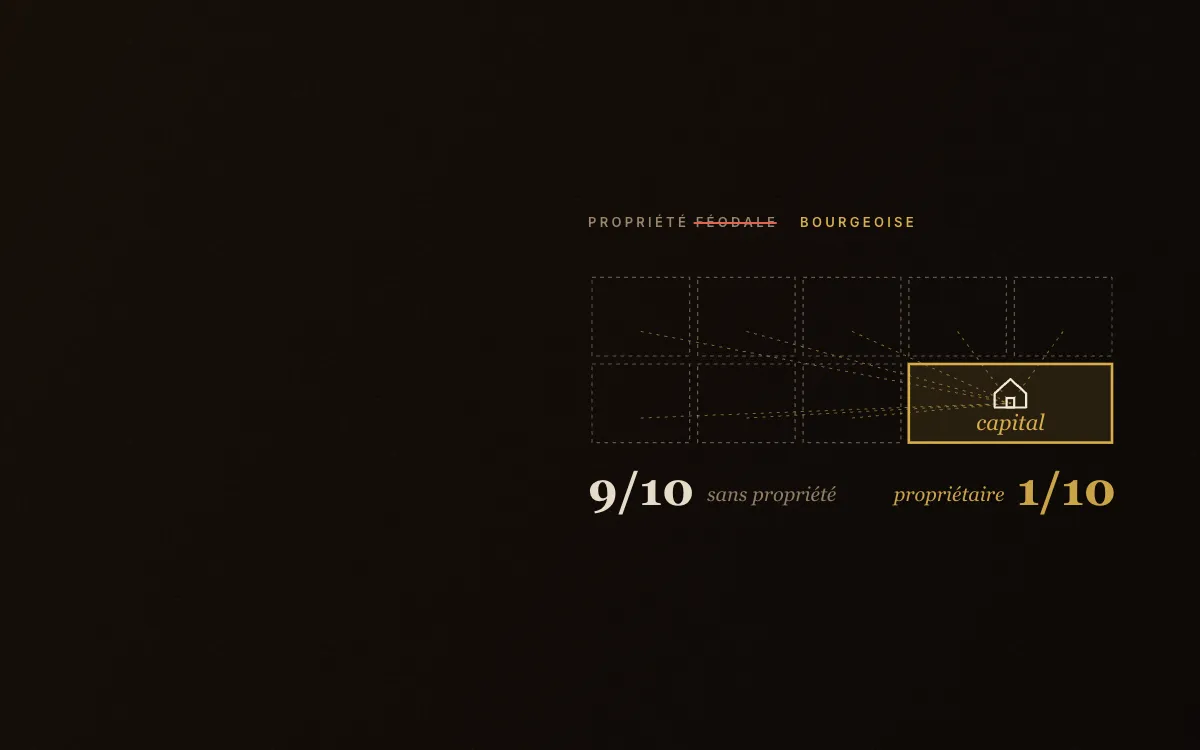
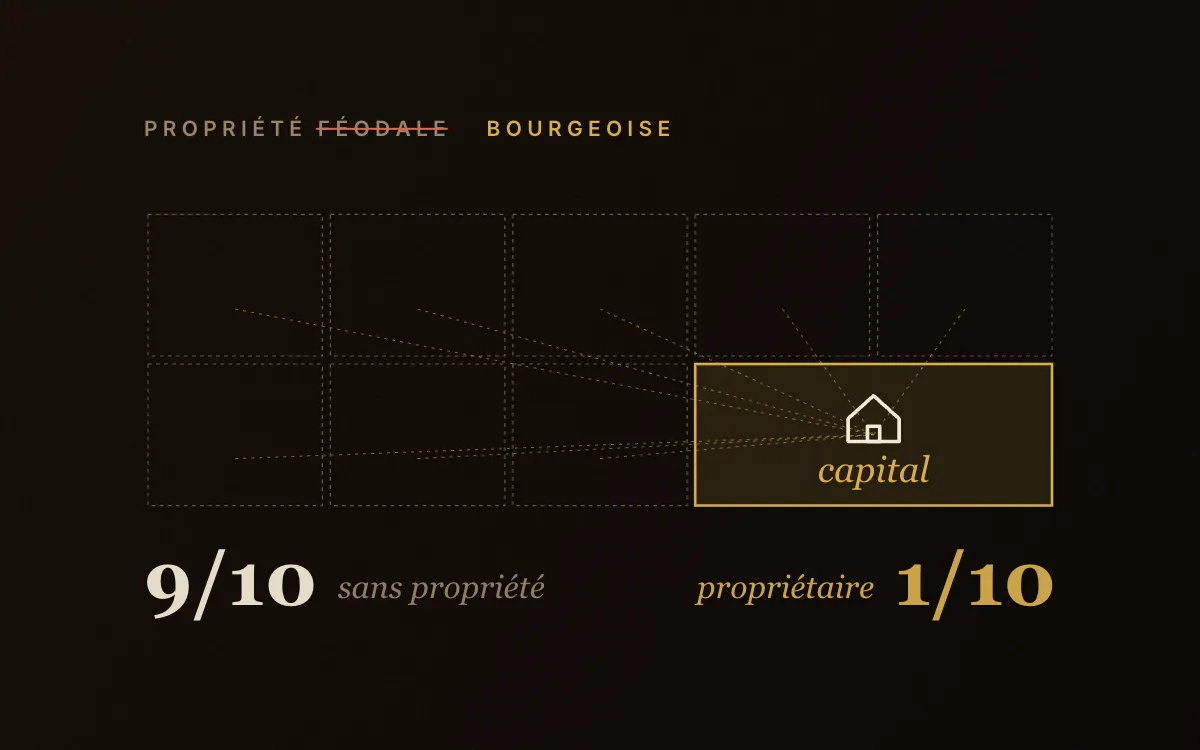
Glossaire : propriete-bourgeoise réécrite selon la charte, direction artistique « le titre de propriété »

diff --git a/glossaire/mondes/propriete-bourgeoise/essai.html b/glossaire/mondes/propriete-bourgeoise/essai.html
@@ -1,48 +1,78 @@
-<!-- L'ESSAI — le corps de /glossaire/propriete-bourgeoise. data-s="1"
-     partout. Toutes les citations sont relevées dans le texte de Laura
-     Lafargue que la liseuse sert ; aucune ne reprend une phrase citée par les
-     autres pages du Manifeste. Les Manuscrits de 1844 sont convoqués sans
-     citation (traduction protégée), par renvoi à leur page. -->
+<!-- L'ESSAI : le corps de /glossaire/propriete-bourgeoise.
+     Réécrit en octobre 2026 selon glossaire/mondes/CHARTE.md.
+     data-s="1" partout : le Manifeste tient en une seule page Wikisource.
+     Toutes les citations sont relevées dans le texte de Laura Lafargue que la
+     liseuse sert (apostrophe typographique comprise ; « une  position » porte
+     deux espaces dans le texte servi). Aucune ne reprend une phrase citée par
+     les autres pages du Manifeste. Les Manuscrits de 1844 sont paraphrasés et
+     situés, jamais cités (traduction protégée). -->
 
 <section class="nt-sec" data-etape="horreur" id="difficulte">
-<h2>Une formule qui fait peur</h2>
-<p>Aucune phrase du <i>Manifeste</i> n'a davantage servi à le combattre que celle où il résume sa doctrine. Les communistes, écrit-il, <q data-s="1" data-q="peuvent résumer leur théorie dans cette proposition">peuvent résumer leur théorie dans cette proposition</q>&nbsp;: abolition de la propriété privée. Prise à la lettre et hors de son contexte, la formule annonce la confiscation de tout ce que chacun possède, de la maison au mobilier&nbsp;; et c'est bien ainsi que ses adversaires l'ont reçue, en accusant les communistes de vouloir abolir la propriété <q data-s="1" data-q="péniblement acquise par le travail">péniblement acquise par le travail</q>, que l'on déclare être la base de toute liberté et de toute indépendance individuelle.</p>
-<p>Toute la difficulté de la notion tient à ce que le texte ne recule pas devant la formule, mais la précise aussitôt, et que la précision en change entièrement le sens. Il ne s'agit pas de la propriété en général&nbsp;: <q data-s="1" data-q="Le caractère distinctif du communisme n’est pas l’abolition de la propriété en général, mais l’abolition de la propriété bourgeoise">le caractère distinctif du communisme n'est pas l'abolition de la propriété en général, mais l'abolition de la propriété bourgeoise</q>. Il faut donc comprendre ce qui distingue la propriété bourgeoise de toute autre, et c'est ce que le texte fait en trois temps, que nous suivrons dans l'ordre&nbsp;: la propriété a une histoire&nbsp;; la propriété personnelle n'est pas la propriété bourgeoise&nbsp;; celle-ci n'existe qu'à la condition d'en priver le plus grand nombre.</p>
+<h2>Que veulent abolir les communistes&nbsp;?</h2>
+<p class="nt-lead">Une forme précise de propriété, que le <i>Manifeste</i> appelle la propriété bourgeoise. Il prend à son compte la formule «&nbsp;abolition de la propriété privée&nbsp;», puis il dit aussitôt de quelle propriété il parle.</p>
+<p>Aucune phrase du <i>Manifeste</i> n'a davantage servi à le combattre que celle où il résume sa doctrine. Les communistes, écrit-il au milieu de la deuxième partie, <q data-s="1" data-q="peuvent résumer leur théorie dans cette proposition">peuvent résumer leur théorie dans cette proposition</q>&nbsp;: abolition de la propriété privée. Lue seule, la formule annonce une confiscation générale, de la maison jusqu'au mobilier. C'est bien ainsi que ses adversaires l'ont entendue&nbsp;: ils accusent les communistes de vouloir abolir la propriété personnelle, <q data-s="1" data-q="péniblement acquise par le travail">péniblement acquise par le travail</q>, que l'on tient pour la base de toute liberté et de toute indépendance individuelle.</p>
+<p>Le texte ne retire pas la formule. Il la précise, et la précision en change le sens&nbsp;:</p>
+<blockquote data-s="1" data-q="Le caractère distinctif du communisme n’est pas l’abolition de la propriété en général, mais l’abolition de la propriété bourgeoise"><p>Le caractère distinctif du communisme n’est pas l’abolition de la propriété en général, mais l’abolition de la propriété bourgeoise.</p></blockquote>
+<p>C'est cet adjectif qu'il faut comprendre. Pour le comprendre, le <i>Manifeste</i> répond aux objections en trois temps, et l'on suivra son ordre. La propriété a une histoire, dont la forme bourgeoise n'est que le dernier moment. La propriété qu'on gagne par son travail se distingue de celle qui donne un pouvoir sur le travail des autres. Enfin, la propriété bourgeoise n'existe pour quelques-uns qu'à condition d'être refusée au plus grand nombre.</p>
 </section>
 
 <section class="nt-sec" data-etape="histoire" id="ou">
-<h2>Où le texte la pose&nbsp;: la propriété a une histoire</h2>
-<p>La première réponse aux objections est historique, et elle ruine d'emblée l'idée que les communistes s'attaqueraient à une institution éternelle. <q data-s="1" data-q="La propriété a subi de constants changements, de continuelles transformations historiques">La propriété a subi de constants changements, de continuelles transformations historiques</q>, et le texte en donne l'exemple le plus proche de ses lecteurs&nbsp;: <q data-s="1" data-q="La Révolution française, par exemple, abolit la propriété féodale en faveur de la propriété bourgeoise">la Révolution française, par exemple, abolit la propriété féodale en faveur de la propriété bourgeoise</q>. Abolir une forme de propriété n'est donc pas une nouveauté inouïe&nbsp;: c'est ce que la bourgeoisie a fait elle-même, et ce dont elle tire sa légitimité.</p>
-<p>La propriété bourgeoise reçoit alors sa place dans cette histoire, et le texte la situe à son terme. Elle est <q data-s="1" data-q="la dernière et la plus parfaite expression du mode de production et d’appropriation basé sur les antagonismes de classes, sur l’exploitation des uns par les autres">la dernière et la plus parfaite expression du mode de production et d'appropriation basé sur les antagonismes de classes, sur l'exploitation des uns par les autres</q>. Dernière, parce que le texte n'en voit pas d'autre après elle&nbsp;; parfaite, parce qu'elle a débarrassé l'appropriation de tout ce qui la mêlait, dans les formes antérieures, à des liens personnels ou coutumiers. On voit par là ce que la notion doit à celle de la <a href="/glossaire/lutte-des-classes">lutte des classes</a>&nbsp;: une propriété de classe est un rapport entre des hommes, et c'est ce rapport qu'on abolit, non les choses.</p>
-<p>Il faut distinguer cette notion de celle que les <i>Manuscrits de 1844</i> nommaient déjà propriété privée. Là, Marx la pensait comme le résultat du travail aliéné, et la question était celle de l'essence humaine dépossédée&nbsp;; ici, la propriété est une forme historique parmi d'autres, datée et située. Le passage d'un vocabulaire à l'autre est l'un des déplacements majeurs de ces quatre années, et on le lira à la page de la <a href="/glossaire/propriete-privee">propriété privée</a>.</p>
+<h2>Pourquoi le <i>Manifeste</i> rappelle-t-il que la propriété a une histoire&nbsp;?</h2>
+<p class="nt-lead">Pour montrer qu'abolir une forme de propriété n'a rien d'inouï. La bourgeoisie l'a fait elle-même en abolissant la propriété féodale, et la propriété bourgeoise n'est qu'une forme parmi d'autres, la dernière en date.</p>
+<p>L'objection suppose que la propriété est une institution naturelle, la même à toutes les époques. Le texte lui oppose un constat&nbsp;: <q data-s="1" data-q="La propriété a subi de constants changements, de continuelles transformations historiques">la propriété a subi de constants changements, de continuelles transformations historiques</q>. Il en donne l'exemple le plus proche de ses lecteurs&nbsp;: <q data-s="1" data-q="La Révolution française, par exemple, abolit la propriété féodale en faveur de la propriété bourgeoise">la Révolution française, par exemple, abolit la propriété féodale en faveur de la propriété bourgeoise</q>. Ceux qui crient à la spoliation sont donc les héritiers d'une abolition. Leur propre propriété est née de la destruction d'une autre.</p>
+<div data-planche="decret"></div>
+<p>La propriété bourgeoise reçoit alors sa place dans cette histoire, et le texte la met à la fin. Elle est <q data-s="1" data-q="la dernière et la plus parfaite expression du mode de production et d’appropriation basé sur les antagonismes de classes, sur l’exploitation des uns par les autres">la dernière et la plus parfaite expression du mode de production et d’appropriation basé sur les antagonismes de classes, sur l’exploitation des uns par les autres</q>. Dernière, parce que le texte n'en voit pas d'autre après elle. Parfaite, parce qu'elle a dégagé l'appropriation des liens personnels qui l'enveloppaient sous la féodalité. La première partie du <i>Manifeste</i> l'avait dit de la bourgeoisie&nbsp;: elle a brisé les liens qui attachaient l'homme féodal à ses supérieurs, <q data-s="1" data-q="pour ne laisser subsister d’autre lien entre l’homme et l’homme que le froid intérêt, que le dur argent comptant">pour ne laisser subsister d’autre lien entre l’homme et l’homme que le froid intérêt, que le dur argent comptant</q>. On voit ce que la notion doit à la <a href="/glossaire/lutte-des-classes">lutte des classes</a>. Une propriété de classe est un rapport entre des hommes, et c'est ce rapport que l'on abolit, les choses restant ce qu'elles sont.</p>
+<p>On distinguera cette notion de celle que les <i>Manuscrits de 1844</i> appelaient déjà propriété privée. Dans le premier manuscrit, Marx montrait que la propriété privée, qui paraît la cause du travail aliéné, en est plutôt la conséquence. La question portait alors sur l'homme dépossédé de son activité. Quatre ans plus tard, la propriété est devenue une forme historique, datée, que l'on décrit par les classes qu'elle oppose. Ce déplacement se lit à la page de la <a href="/glossaire/propriete-privee">propriété privée</a>.</p>
 </section>
 
 <section class="nt-sec" data-etape="personnelle" id="distinction">
-<h2>La distinction&nbsp;: le fruit du travail et le pouvoir sur le travail</h2>
-<p>La deuxième réponse porte la distinction qui fait le concept. Le texte prend l'objection au mot&nbsp;: de quelle propriété parle-t-on&nbsp;? S'agit-il de celle du petit bourgeois ou du petit paysan, forme antérieure à la propriété bourgeoise&nbsp;? Dans ce cas, les communistes n'ont pas à l'abolir, pour une raison que l'objection oublie&nbsp;: <q data-s="1" data-q="le progrès de l’industrie l’a abolie, ou est en train de l’abolir">le progrès de l'industrie l'a abolie, ou est en train de l'abolir</q>. La propriété personnelle, fruit du travail d'un homme, n'est pas menacée par le communisme&nbsp;: elle l'est par le capitalisme, qui la ruine tous les jours.</p>
-<p>S'agit-il au contraire de la propriété bourgeoise moderne&nbsp;? Alors il faut demander d'où elle vient, et la réponse est tranchante&nbsp;:</p>
+<h2>Qu'est-ce qui sépare la propriété personnelle de la propriété bourgeoise&nbsp;?</h2>
+<p class="nt-lead">Leur rapport au travail. La propriété personnelle est le fruit du travail de celui qui la possède&nbsp;; la propriété bourgeoise est un pouvoir sur le travail des autres.</p>
+<p>Le texte prend l'objection au mot et lui demande de quelle propriété elle parle. Si c'est celle du petit bourgeois ou du petit paysan, plus ancienne que la propriété bourgeoise, les communistes n'ont pas à l'abolir, et pour une raison que l'objection oublie&nbsp;: <q data-s="1" data-q="le progrès de l’industrie l’a abolie, ou est en train de l’abolir">le progrès de l’industrie l’a abolie, ou est en train de l’abolir</q>. L'artisan qui possédait son atelier et le paysan qui possédait son champ ne sont pas menacés par le communisme. Ils le sont par la grande industrie, qui les ruine tous les jours et les fait passer dans le salariat.</p>
+<p>Si c'est la propriété bourgeoise moderne, il faut demander d'où elle vient, et la réponse est tranchante&nbsp;:</p>
 <blockquote data-s="1" data-q="Est-ce que le travail salarié crée de la propriété pour le prolétaire ? Nullement"><p>Est-ce que le travail salarié crée de la propriété pour le prolétaire&nbsp;? Nullement. Il crée le capital, c’est-à-dire la propriété qui exploite le travail salarié, et qui ne peut s’accroître qu’à la condition de produire du nouveau travail salarié afin de l’exploiter de nouveau.</p></blockquote>
-<p>La distinction ne passe donc pas entre les grandes et les petites propriétés, ni entre les biens utiles et les biens superflus. Elle passe entre une propriété qui est le produit du travail de son possesseur et une propriété qui est un pouvoir sur le travail des autres. Le texte le formule sans ambiguïté un peu plus loin&nbsp;: <q data-s="1" data-q="Le communisme n’enlève à personne le pouvoir de s’approprier sa part des produits sociaux, il n’ôte que le pouvoir d’assujettir, à l’aide de cette appropriation, le travail d’autrui">le communisme n'enlève à personne le pouvoir de s'approprier sa part des produits sociaux, il n'ôte que le pouvoir d'assujettir, à l'aide de cette appropriation, le travail d'autrui</q>.</p>
+<p>La ligne de partage passe donc entre deux usages de ce qu'on possède, quelle que soit la taille de la fortune. L'ouvrier s'approprie un salaire, avec lequel il entretient sa vie, et le texte n'y touche pas, <q data-s="1" data-q="cette appropriation ne laissant aucun profit net qui donne du pouvoir sur le travail d’autrui">cette appropriation ne laissant aucun profit net qui donne du pouvoir sur le travail d’autrui</q>. Une propriété devient bourgeoise à partir du moment où elle permet de faire travailler les autres à son profit. Le texte le redit plus loin, en une phrase qui sert de définition&nbsp;: <q data-s="1" data-q="Le communisme n’enlève à personne le pouvoir de s’approprier sa part des produits sociaux, il n’ôte que le pouvoir d’assujettir, à l’aide de cette appropriation, le travail d’autrui">le communisme n’enlève à personne le pouvoir de s’approprier sa part des produits sociaux, il n’ôte que le pouvoir d’assujettir, à l’aide de cette appropriation, le travail d’autrui</q>.</p>
+<div class="nt-ex">
+<p class="nt-ex-t">Un exemple</p>
+<p>Prenons l'action reproduite en tête de cette page. En 1856, à Bielefeld, la filature de Ravensberg émet son action n° 1993, de deux cents thalers. Le papier dit que son détenteur prend part à la filature pour cette somme, et dix coupons de dividende y sont attachés, de 1857 à 1866. Ce détenteur n'a pas besoin de connaître le chemin de l'usine. Chaque année, il détache un coupon et touche sa part de ce que d'autres ont produit en filant.</p>
+<p>Imaginons à présent un fileur de la même usine. Il possède ses vêtements, ses meubles, peut-être une montre. Ces biens viennent de son salaire, et ils s'usent à mesure qu'il s'en sert. Aucun ne lui permet de faire travailler qui que ce soit. Les deux hommes sont propriétaires, mais leurs propriétés n'ont pas la même nature, et c'est la seconde, la plus modeste, que le <i>Manifeste</i> déclare intouchable.</p>
+</div>
 </section>
 
 <section class="nt-sec" data-etape="capital" id="mecanisme">
-<h2>Le mécanisme&nbsp;: une force sociale en mains privées</h2>
-<p>Pourquoi le capital serait-il un pouvoir, et non une richesse comme une autre&nbsp;? La réponse du texte tient en un raisonnement bref, qui déplace la question du possesseur vers la production. <q data-s="1" data-q="Le capital est un produit collectif">Le capital est un produit collectif</q>&nbsp;; il ne peut être mis en mouvement que par les efforts combinés de beaucoup, et en dernière instance de tous les membres de la société. Être capitaliste, par conséquent, ce n'est pas seulement occuper une position personnelle, c'est occuper <q data-s="1" data-q="une  position sociale dans le système de la production">une position sociale dans le système de la production</q>. D'où la conclusion&nbsp;:</p>
+<h2>Pourquoi le capital est-il un pouvoir et pas une richesse comme une autre&nbsp;?</h2>
+<p class="nt-lead">Parce qu'il est un produit collectif, qui ne se met en mouvement que par le travail combiné de beaucoup. Celui qui le possède tient en mains privées une force sociale.</p>
+<p>Le raisonnement du texte est bref, et il déplace la question du possesseur vers la production. <q data-s="1" data-q="Le capital est un produit collectif">Le capital est un produit collectif</q>&nbsp;: il ne fonctionne que si beaucoup de membres de la société y travaillent ensemble, et en dernière instance tous. Être capitaliste, par conséquent, c'est occuper non seulement une position personnelle, mais <q data-s="1" data-q="une  position sociale dans le système de la production">une position sociale dans le système de la production</q>. La conclusion suit&nbsp;:</p>
 <blockquote data-s="1" data-q="Le capital n’est donc pas une force personnelle"><p>Le capital n’est donc pas une force personnelle&nbsp;; il est une force sociale.</p></blockquote>
-<p>L'abolition de la propriété bourgeoise reçoit ainsi une définition précise, qui n'a rien d'une confiscation. Quand le capital devient propriété commune, <q data-s="1" data-q="ce n’est pas là une propriété personnelle transformée en propriété sociale">ce n'est pas là une propriété personnelle transformée en propriété sociale</q>&nbsp;: la chose était déjà sociale, seul change le caractère de sa propriété, qui <q data-s="1" data-q="perd son caractère de propriété de classe">perd son caractère de propriété de classe</q>.</p>
-<p>Le texte en donne une formulation temporelle qui annonce <i>Le Capital</i>. <q data-s="1" data-q="Dans la société bourgeoise, le travail vivant n’est qu’un moyen d’accroître le travail accumulé">Dans la société bourgeoise, le travail vivant n'est qu'un moyen d'accroître le travail accumulé</q>&nbsp;; dans la société communiste, le travail accumulé n'est qu'un moyen d'élargir et d'enrichir l'existence des travailleurs. Et plus brièvement encore&nbsp;: <q data-s="1" data-q="Dans la société bourgeoise, le passé domine le présent">dans la société bourgeoise, le passé domine le présent</q>. On reconnaît le rapport que <i>Le Capital</i> analysera sous les noms de <a href="/glossaire/travail-mort-et-vivant">travail mort et travail vivant</a>.</p>
+<p>L'abolition de la propriété bourgeoise reçoit ici une définition précise, qui n'a rien d'une confiscation de biens. Quand le capital devient propriété commune, <q data-s="1" data-q="ce n’est pas là une propriété personnelle transformée en propriété sociale">ce n’est pas là une propriété personnelle transformée en propriété sociale</q>. La chose était déjà sociale par la manière dont elle est produite et mise en œuvre. Seul change le caractère de sa propriété, qui <q data-s="1" data-q="perd son caractère de propriété de classe">perd son caractère de propriété de classe</q>.</p>
+<p>Le texte donne de ce rapport une formule temporelle qui annonce <i>Le Capital</i>. <q data-s="1" data-q="Dans la société bourgeoise, le travail vivant n’est qu’un moyen d’accroître le travail accumulé">Dans la société bourgeoise, le travail vivant n’est qu’un moyen d’accroître le travail accumulé</q>&nbsp;; dans la société communiste, poursuit-il, le travail accumulé servira à élargir, enrichir et embellir l'existence. Plus brièvement encore&nbsp;: <q data-s="1" data-q="Dans la société bourgeoise, le passé domine le présent">dans la société bourgeoise, le passé domine le présent</q>. Le travail d'hier, devenu capital, commande le travail d'aujourd'hui. Marx analysera ce rapport sous les noms de <a href="/glossaire/travail-mort-et-vivant">travail mort et travail vivant</a>.</p>
 </section>
 
 <section class="nt-sec" data-etape="neuf" id="ouvre">
-<h2>Ce que le concept ouvre&nbsp;: les neuf dixièmes</h2>
-<p>La troisième réponse retourne l'objection contre ceux qui la font, et c'est le passage le plus célèbre de la partie. Les bourgeois accusent les communistes de vouloir priver les hommes de leur propriété&nbsp;; le texte leur rappelle ce qu'est leur propre société&nbsp;:</p>
+<h2>Que signifient les «&nbsp;neuf dixièmes&nbsp;»&nbsp;?</h2>
+<p class="nt-lead">Une condition, dite sous forme de proportion&nbsp;: la propriété bourgeoise suppose que la grande majorité en soit privée. L'abolition que redoutent les bourgeois est déjà faite, pour presque tous.</p>
+<p>Le troisième temps de la réponse retourne l'objection contre ceux qui la font. On accuse les communistes de vouloir priver les hommes de leur propriété&nbsp;; le texte rappelle à ses accusateurs ce qu'est leur propre société&nbsp;:</p>
 <blockquote data-s="1" data-q="Vous êtes saisi d’horreur parce que nous voulons abolir la propriété privée"><p>Vous êtes saisi d’horreur parce que nous voulons abolir la propriété privée. Mais dans votre société la propriété privée est abolie pour les neuf dixièmes de ses membres. C’est précisément parce qu’elle n’existe pas pour ces neuf dixièmes qu’elle existe pour vous.</p></blockquote>
-<p>La proportion n'est pas une statistique, et il serait vain de la vérifier comme telle&nbsp;; c'est un rapport, et il dit que la propriété bourgeoise n'est pas une propriété répandue qui aurait des exclus, mais une propriété qui ne peut <q data-s="1" data-q="se constituer qu’à la condition de priver l’immense majorité de la société de toute propriété">se constituer qu'à la condition de priver l'immense majorité de la société de toute propriété</q>. L'abolition que redoutent les bourgeois est donc déjà faite, pour presque tous, et elle est la condition même de la propriété qu'ils défendent. Le texte en tire la seule conclusion honnête&nbsp;: <q data-s="1" data-q="En un mot, vous nous accusez de vouloir abolir votre propriété à vous. À la vérité, c’est bien là notre intention">en un mot, vous nous accusez de vouloir abolir votre propriété à vous. À la vérité, c'est bien là notre intention</q>. C'est l'histoire de cette privation que <i>Le Capital</i> écrira à la page de l'<a href="/glossaire/accumulation-primitive">accumulation primitive</a>.</p>
+<p>Il serait vain de vérifier la proportion comme une statistique. Elle énonce un lien de dépendance. Si le capital est un pouvoir sur le travail d'autrui, il lui faut des hommes qui n'ont rien d'autre à vendre que ce travail. La propriété bourgeoise ne peut donc <q data-s="1" data-q="se constituer qu’à la condition de priver l’immense majorité de la société de toute propriété">se constituer qu’à la condition de priver l’immense majorité de la société de toute propriété</q>. Elle n'a pas des exclus par accident, comme une richesse qui ne serait pas encore assez répandue. Ses exclus sont sa condition.</p>
+<div data-planche="belier"></div>
+<p>Le texte peut alors conclure sans détour&nbsp;: <q data-s="1" data-q="En un mot, vous nous accusez de vouloir abolir votre propriété à vous. À la vérité, c’est bien là notre intention">en un mot, vous nous accusez de vouloir abolir votre propriété à vous. À la vérité, c’est bien là notre intention</q>. L'ironie porte l'argument. Ce que le <i>Manifeste</i> veut abolir appartient déjà à un petit nombre, et c'est cette rareté même qui le rend désirable à ses possesseurs. Comment la majorité a été privée de toute propriété, <i>Le Capital</i> le racontera à la page de l'<a href="/glossaire/accumulation-primitive">accumulation primitive</a>.</p>
 </section>
 
 <section class="nt-sec" data-etape="lectures" id="lectures">
-<h2>Les lectures et les contresens</h2>
-<p>Le premier contresens, et le plus répandu, confond propriété bourgeoise et biens personnels&nbsp;: les communistes voudraient prendre la maison, le linge, les économies. Nous avons vu que le texte dit exactement l'inverse, et que c'est le capitalisme qu'il accuse d'avoir aboli la petite propriété. La distinction n'est pas une précaution rhétorique&nbsp;; elle est la définition même de la notion, qui porte sur un pouvoir et non sur des objets.</p>
-<p>Le deuxième tient à l'objection de la paresse, que le texte cite et réfute d'une ligne. On a dit qu'avec l'abolition de la propriété privée <q data-s="1" data-q="une paresse générale s’emparerait du monde">une paresse générale s'emparerait du monde</q>&nbsp;; si cela était, répond-il, la société bourgeoise aurait depuis longtemps succombé à la fainéantise, <q data-s="1" data-q="puisque ceux qui y travaillent ne gagnent pas et que ceux qui y gagnent ne travaillent pas">puisque ceux qui y travaillent ne gagnent pas et que ceux qui y gagnent ne travaillent pas</q>. L'argument ne prouve pas que le communisme fonctionnerait&nbsp;; il montre que l'objection suppose ce qu'elle devrait établir, à savoir que la propriété privée récompense le travail.</p>
-<p>Le troisième contresens identifie l'abolition de la propriété bourgeoise à la propriété d'État. Le texte y prête, puisque la première étape qu'il décrit consiste à centraliser les instruments de production dans les mains de l'État. Mais il précise aussitôt que cet État est le prolétariat organisé en classe régnante, et que cette domination doit elle-même disparaître avec les classes&nbsp;; la propriété d'État n'est donc qu'un moyen transitoire, et le but est ailleurs, dans la perte du caractère de classe de la propriété. Nous tenons que confondre l'étape et le but est ce qui a permis de faire passer pour du <a href="/glossaire/communisme">communisme</a> des régimes où la propriété d'État restait une propriété de classe sous un autre nom&nbsp;; la page du <a href="/glossaire/pouvoir-politique">pouvoir politique</a> précise ce que le texte entend par cette transition.</p>
+<h2>Comment lire cette notion, et quels contresens éviter&nbsp;?</h2>
+<p class="nt-lead">La notion porte sur un pouvoir. La plupart des contresens viennent de ce qu'on l'oublie, ou de ce qu'on confond le but du texte avec l'étape qu'il décrit.</p>
+<p>Le <i>Manifeste</i> répond encore à une objection, celle de la paresse. On a dit qu'avec l'abolition de la propriété privée <q data-s="1" data-q="une paresse générale s’emparerait du monde">une paresse générale s’emparerait du monde</q>. Si c'était vrai, répond-il, la société bourgeoise aurait depuis longtemps succombé à la fainéantise, <q data-s="1" data-q="puisque ceux qui y travaillent ne gagnent pas et que ceux qui y gagnent ne travaillent pas">puisque ceux qui y travaillent ne gagnent pas et que ceux qui y gagnent ne travaillent pas</q>. La réplique ne prouve pas qu'une société communiste fonctionnerait. Elle montre que l'objection suppose ce qu'il faudrait établir, à savoir que la propriété privée récompense le travail. Le porteur de l'action de Ravensberg touche son dividende sans filer.</p>
+<p>Reste la question des moyens. Le texte décrit une première étape, où le prolétariat, devenu classe régnante, centralise les instruments de production entre les mains de l'État. Il ajoute que cet État est le prolétariat lui-même, organisé en classe régnante, et que cette domination doit disparaître avec les classes. Nous tenons que la confusion entre cette étape et le but a permis de présenter comme communistes des régimes où la propriété d'État restait une propriété de classe sous un autre nom. La page du <a href="/glossaire/pouvoir-politique">pouvoir politique</a> précise ce que le texte entend par cette transition, et celle du <a href="/glossaire/communisme">communisme</a> ce que Marx en disait dès 1844.</p>
+<div class="nt-cs">
+<p><span class="nt-cs-k">On lit souvent</span> Les communistes voudraient prendre à chacun sa maison, ses meubles, ses économies.</p>
+<p><span class="nt-cs-k">Ce que dit le texte</span> Il laisse intacte l'appropriation personnelle des produits du travail, et il accuse le capitalisme d'avoir déjà ruiné la petite propriété de l'artisan et du paysan. Ce qu'il vise est le pouvoir de faire travailler les autres à son profit.</p>
+</div>
+<div class="nt-cs">
+<p><span class="nt-cs-k">On lit souvent</span> Abolir la propriété bourgeoise reviendrait à tout remettre à l'État.</p>
+<p><span class="nt-cs-k">Ce que dit le texte</span> La centralisation par l'État y est une étape, confiée au prolétariat organisé en classe régnante, et appelée à disparaître avec les classes. Le but est que la propriété perde son caractère de propriété de classe.</p>
+</div>
+<div class="nt-cs">
+<p><span class="nt-cs-k">On lit souvent</span> Les «&nbsp;neuf dixièmes&nbsp;» seraient une estimation de la pauvreté en 1848, qu'il suffirait de corriger avec de meilleurs chiffres.</p>
+<p><span class="nt-cs-k">Ce que dit le texte</span> La proportion dit une dépendance&nbsp;: la propriété des uns existe parce que les autres n'en ont pas. Une meilleure répartition des biens personnels ne touche pas à ce rapport.</p>
+</div>
 </section>

diff --git a/glossaire/mondes/propriete-bourgeoise/monde.js b/glossaire/mondes/propriete-bourgeoise/monde.js
@@ -60,13 +60,19 @@ window.LM_MONDE = function (canvas) {
     for (var gx = 0; gx < cw; gx += 200) for (var gy = 0; gy < ch; gy += 200) ctx.drawImage(grain, gx, gy);
     ctx.restore();
 
-    var large = cw >= 1100;
-    var X0 = large ? cw * 0.49 : cw * 0.07, X1 = large ? cw * 0.93 : cw * 0.93;
+    /* la scène est une figure : le plan est centré dans son cadre, quelle
+       que soit sa largeur (il visait jadis la moitié droite d'une page en
+       plein écran, pour laisser la place au texte) */
+    var marge = cw >= 600 ? 0.12 : 0.07;
+    var X0 = cw * marge, X1 = cw * (1 - marge);
     var W = X1 - X0, cell = W / 5, Hc = Math.min(cell * 0.82, ch * 0.24);
     var Y0 = ch * 0.5 - Hc - ch * 0.02;
     /* réglé sur la hauteur : dans le bandeau mobile, un plancher de 12 px
        poussait la dernière ligne hors du cadre */
-    var t = Math.max(8, Math.round(Math.min(ch * 0.03, cell * 0.2, ch * 0.9 / 19)));
+    /* dans la figure (16/10, 650 px de large au plus sur la page), un
+       plancher de 3 % de la hauteur rendait l'intitulé à 7 px : on part de
+       4,5 %, toujours borné par la cellule et par la hauteur */
+    var t = Math.max(8, Math.round(Math.min(ch * 0.045, cell * 0.2, ch * 0.9 / 19)));
 
     var vu = ss(0.05, 0.9, G);
     if (vu < 0.01) return;
@@ -162,7 +168,7 @@ window.LM_MONDE = function (canvas) {
     if (fin > 0.35) {
       ctx.globalAlpha = ss(0.35, 1, fin); ctx.textAlign = 'left'; ctx.fillStyle = SOURD;
       ctx.font = 'italic ' + Math.round(t * 0.95) + 'px Georgia, serif';
-      ctx.fillText('sa part des produits sociaux — sans pouvoir sur le travail d’autrui', X0, Y0 + 2 * Hc + t * 5.2);
+      ctx.fillText('sa part des produits sociaux, sans pouvoir sur le travail d’autrui', X0, Y0 + 2 * Hc + t * 5.2);
     }
     ctx.globalAlpha = 1;
   }
